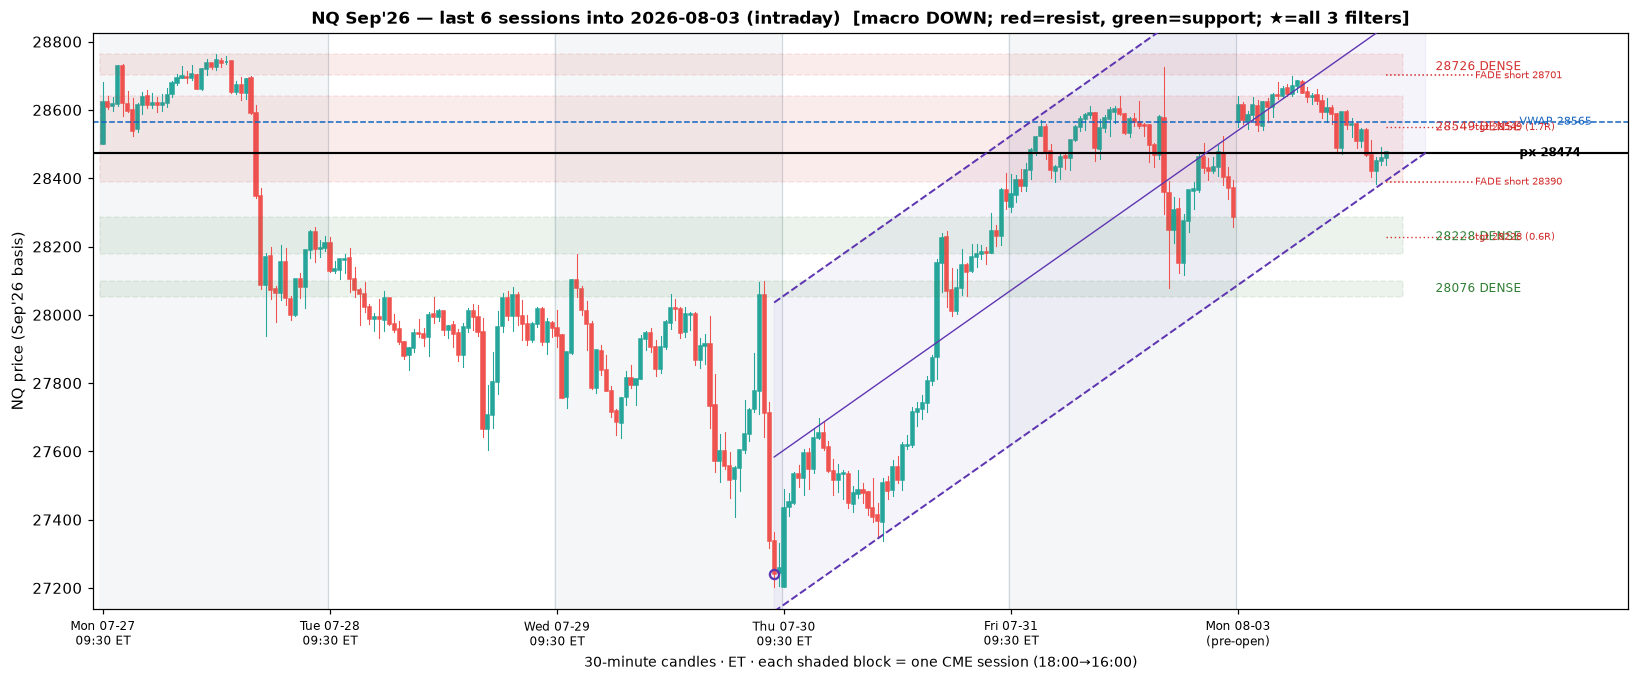
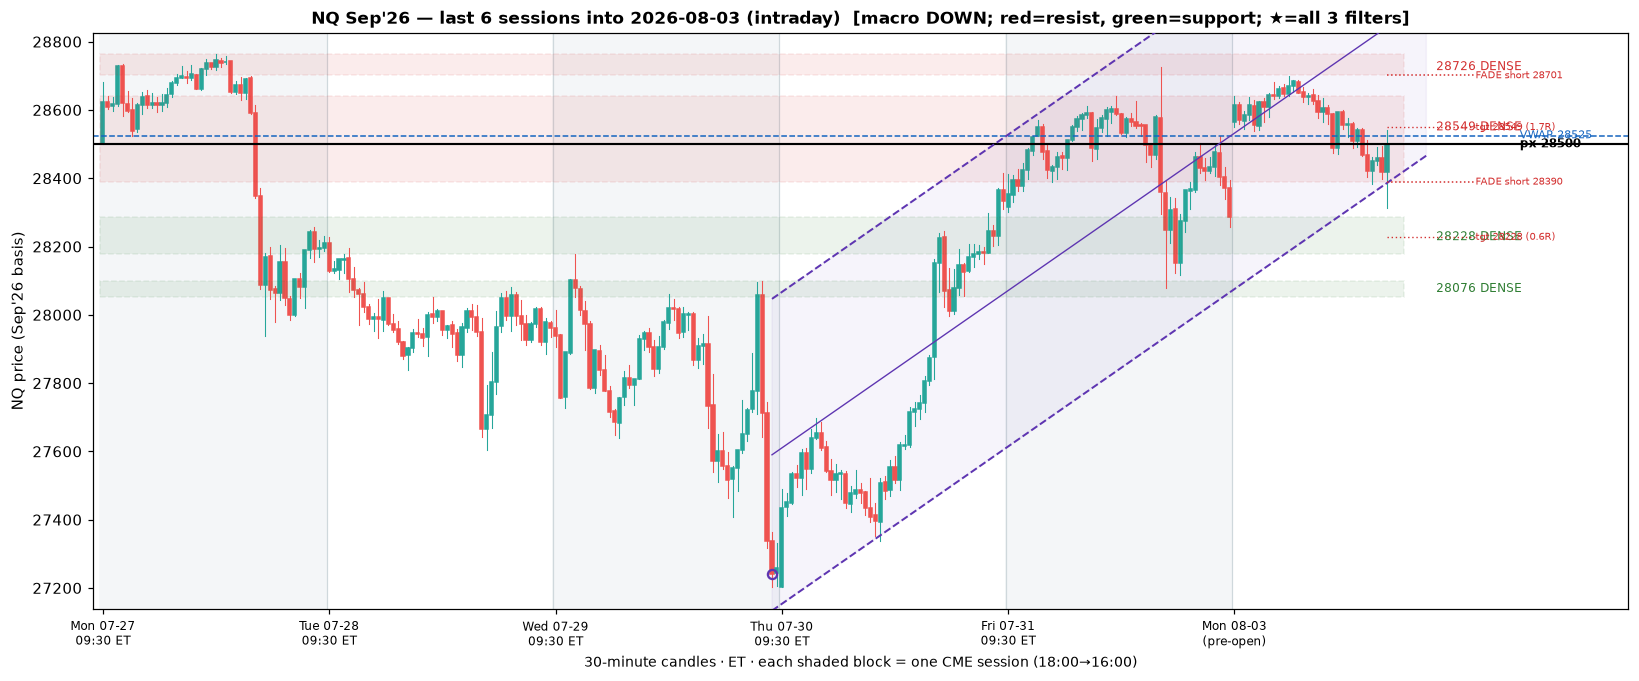
Rerun NQ Aug 3 ~08:55 (28499) + declutter ToS script (drop BOS/CHoCH bubbles)
Read: dipped 28313, bounced to 28499 at lower rail, -0.3sigma, macro DOWN, no
armed trigger. ToS: remove all AddChartBubble labels (HH/HL/LH/LL, BOS, CHoCH)
and their alerts - too crowded. Keep only the two dashed swing hi/lo lines (areas
of significance) + a BULL/BEAR structure label. Zones synced to today (4 zones).

Claude-Session: https://claude.ai/code/session_016aQdjV8pEkud2m7UoLztFR

diff --git a/charts/nq_confluence.ts b/charts/nq_confluence.ts
@@ -1,38 +1,37 @@
 # =====================================================================
-# NQ Confluence — three-filter system + market structure (ThinkOrSwim)
-#   FILTER 1 LOCATION  : A+/DENSE zones (edit the ZONE inputs each rerun)
+# NQ Confluence — three-filter system + clean structure (ThinkOrSwim)
+#   FILTER 1 LOCATION  : A+/DENSE zones (edit ZONE inputs each rerun)
 #   FILTER 2 DIRECTION : macro bias from the daily 10/20 SMA
 #   FILTER 3 EXTENSION : session VWAP +/- sigma stretch
 #   + regression channel + trend-aligned fade / break signals & alerts
-#   + MARKET STRUCTURE : swings (HH/HL/LH/LL), BOS, CHoCH  <-- put a copy
-#     of this study on a 15-MIN chart for the 15-min structure the video uses.
+#   + STRUCTURE : last swing hi/lo lines (areas of significance) + BULL/BEAR label
 #
 # ZONES BELOW ARE FOR 2026-08-03 — update them every rerun from three_filter_read.
 # thinkScript identifiers are CASE-INSENSITIVE; "VWAP" is reserved (plot = SessVWAP).
-# Paste into Studies > Create > thinkScript Editor. Zones/VWAP calibrated for 30-min.
+# Paste the WHOLE block into Studies > Create > thinkScript Editor.
 # =====================================================================
 declare upper;
 
-input kStretch      = 0.5;   # min |VWAP sigma| for the EXTENSION filter
-input chanLen       = 60;    # regression-channel lookback (bars)
-input chanDev       = 2.0;   # channel half-width in residual sigma
+input kStretch      = 0.5;
+input chanLen       = 60;
+input chanDev       = 2.0;
 input showChannel   = yes;
 input showVWAPbands = yes;
 
 # ---- ZONES (edit every rerun): hi / lo / is-resistance ----  (2026-08-03)
-input z1_hi = 28763.0;  input z1_lo = 28701.0;  input z1_resist = yes;   # 28726 DENSE shelf (resist)
-input z2_hi = 28641.0;  input z2_lo = 28390.0;  input z2_resist = yes;   # 28549 DENSE (resist)
+input z1_hi = 28763.0;  input z1_lo = 28701.0;  input z1_resist = yes;   # 28726 DENSE shelf
+input z2_hi = 28641.0;  input z2_lo = 28390.0;  input z2_resist = yes;   # 28549 DENSE
 input z3_hi = 28287.0;  input z3_lo = 28178.0;  input z3_resist = no;    # 28228 DENSE support
 input z4_hi = 28100.0;  input z4_lo = 28052.0;  input z4_resist = no;    # 28076 DENSE support
 
-# ---- FILTER 2: macro DIRECTION (daily 10/20 SMA + position) ----
+# ---- FILTER 2: macro DIRECTION (daily 10/20 SMA) ----
 def dClose = close(period = AggregationPeriod.DAY);
 def sma10  = Average(dClose, 10);
 def sma20  = Average(dClose, 20);
 def bias   = if sma10 > sma20 and dClose > sma20 then 1
              else if sma10 < sma20 and dClose < sma20 then -1 else 0;
 
-# ---- FILTER 3: session VWAP + sigma, stretch = (close-VWAP)/sigma ----
+# ---- FILTER 3: session VWAP + sigma stretch ----
 def newDay  = GetDay() != GetDay()[1];
 def vSum    = if newDay then volume else vSum[1] + volume;
 def pvSum   = if newDay then volume * hlc3 else pvSum[1] + volume * hlc3;
@@ -54,7 +53,7 @@ AddCloud(z2_hi, z2_lo, if z2_resist then Color.RED else Color.GREEN, if z2_resis
 AddCloud(z3_hi, z3_lo, if z3_resist then Color.RED else Color.GREEN, if z3_resist then Color.RED else Color.GREEN);
 AddCloud(z4_hi, z4_lo, if z4_resist then Color.RED else Color.GREEN, if z4_resist then Color.RED else Color.GREEN);
 
-# ---- regression channel (trailing linreg + residual sigma) ----
+# ---- regression channel ----
 def regVal = Inertia(close, chanLen);
 def rStd   = StDev(close - regVal, chanLen);
 plot ChMid = if showChannel then regVal else Double.NaN;
@@ -64,11 +63,7 @@ ChMid.SetDefaultColor(Color.VIOLET);
 ChUp.SetDefaultColor(Color.VIOLET);  ChUp.SetStyle(Curve.SHORT_DASH);
 ChLo.SetDefaultColor(Color.VIOLET);  ChLo.SetStyle(Curve.SHORT_DASH);
 
-# =====================================================================
-# SIGNALS — trend-aligned only (backtested). Generalised across all 4 zones:
-#   FADE  : tag a RESISTANCE zone (down tape) / SUPPORT zone (up tape) + >=kStretch sigma
-#   BREAK : close THROUGH a SUPPORT zone (down tape) / RESISTANCE zone (up tape), with trend
-# =====================================================================
+# ---- SIGNALS (trend-aligned, generalised across all 4 zones) ----
 def fadeShort = bias < 0 and stretch >= kStretch and (
     (z1_resist and high >= z1_lo and close < z1_lo) or
     (z2_resist and high >= z2_lo and close < z2_lo) or
@@ -103,53 +98,26 @@ plot SigBrkLong = if brkLong then high else Double.NaN;
 SigBrkLong.SetPaintingStrategy(PaintingStrategy.BOOLEAN_ARROW_UP);
 SigBrkLong.SetDefaultColor(Color.MAGENTA);
 
-Alert(fadeShort, "NQ FADE-short: zone tag + stretch (with trend)", Alert.BAR, Sound.Ring);
-Alert(fadeLong,  "NQ FADE-long: zone tag + stretch (with trend)",  Alert.BAR, Sound.Ring);
-Alert(brkShort,  "NQ BREAK-short: close thru support (with trend)", Alert.BAR, Sound.Bell);
-Alert(brkLong,   "NQ BREAK-long: close thru resistance (with trend)", Alert.BAR, Sound.Bell);
+Alert(fadeShort, "NQ FADE-short", Alert.BAR, Sound.Ring);
+Alert(fadeLong,  "NQ FADE-long",  Alert.BAR, Sound.Ring);
+Alert(brkShort,  "NQ BREAK-short", Alert.BAR, Sound.Bell);
+Alert(brkLong,   "NQ BREAK-long",  Alert.BAR, Sound.Bell);
 
-# =====================================================================
-# MARKET STRUCTURE — swings + BOS / CHoCH  (best on a 15-min chart)
-#   Dashed gray = last swing hi / lo = the liquidity the trend must break.
-#   BOS = break WITH trend (continuation); CHoCH = first break AGAINST (reversal risk).
-# =====================================================================
+# ---- STRUCTURE (clean): last swing hi/lo = areas of significance ----
 input showStructure = yes;
-input swingStrength = 5;     # bars each side of a swing pivot
-
+input swingStrength = 5;
 def ph = high[swingStrength] == Highest(high, 2 * swingStrength + 1);
 def pl = low[swingStrength]  == Lowest(low,  2 * swingStrength + 1);
-
-def swHi  = if ph then high[swingStrength] else swHi[1];
-def swLo  = if pl then low[swingStrength]  else swLo[1];
-def pSwHi = if ph then swHi[1] else pSwHi[1];
-def pSwLo = if pl then swLo[1] else pSwLo[1];
-
-def dir = CompoundValue(1,
+def swHi = if ph then high[swingStrength] else swHi[1];
+def swLo = if pl then low[swingStrength]  else swLo[1];
+def dir  = CompoundValue(1,
     if swHi > 0 and close > swHi then 1
     else if swLo > 0 and close < swLo then -1
     else dir[1], 0);
-
-def brokeUp = swHi > 0 and close > swHi and close[1] <= swHi;
-def brokeDn = swLo > 0 and close < swLo and close[1] >= swLo;
-def bosUp   = brokeUp and dir[1] > 0;
-def chochUp = brokeUp and dir[1] <= 0;
-def bosDn   = brokeDn and dir[1] < 0;
-def chochDn = brokeDn and dir[1] >= 0;
-
-AddChartBubble(showStructure and ph and high[swingStrength] >  pSwHi, high[swingStrength], "HH", Color.GREEN, yes);
-AddChartBubble(showStructure and ph and high[swingStrength] <= pSwHi, high[swingStrength], "LH", Color.RED,   yes);
-AddChartBubble(showStructure and pl and low[swingStrength]  <  pSwLo, low[swingStrength],  "LL", Color.RED,   no);
-AddChartBubble(showStructure and pl and low[swingStrength]  >= pSwLo, low[swingStrength],  "HL", Color.GREEN, no);
-AddChartBubble(showStructure and (bosUp or bosDn),     close, "BOS",   Color.CYAN,   bosUp);
-AddChartBubble(showStructure and (chochUp or chochDn), close, "CHoCH", Color.YELLOW, chochUp);
-
 plot SwingHi = if showStructure then swHi else Double.NaN;
 plot SwingLo = if showStructure then swLo else Double.NaN;
 SwingHi.SetDefaultColor(Color.GRAY);  SwingHi.SetStyle(Curve.LONG_DASH);
 SwingLo.SetDefaultColor(Color.GRAY);  SwingLo.SetStyle(Curve.LONG_DASH);
-
-Alert(showStructure and (bosUp or bosDn),     "NQ BOS (structure continuation)", Alert.BAR, Sound.Ding);
-Alert(showStructure and (chochUp or chochDn), "NQ CHoCH (structure shift)",      Alert.BAR, Sound.Ding);
 
 # ---- status labels ----
 AddLabel(yes, "Macro " + (if bias > 0 then "UP" else if bias < 0 then "DOWN" else "MIXED"),
@@ -157,5 +125,5 @@ AddLabel(yes, "Macro " + (if bias > 0 then "UP" else if bias < 0 then "DOWN" els
 AddLabel(yes, "Stretch " + Round(stretch, 1) + "s",
          if AbsValue(stretch) >= kStretch then Color.YELLOW else Color.GRAY);
 AddLabel(yes, "VWAP " + Round(vwapVal, 0), Color.CYAN);
-AddLabel(showStructure, "Structure " + (if dir > 0 then "BULL (HH/HL)" else "BEAR (LH/LL)"),
+AddLabel(showStructure, "Struct " + (if dir > 0 then "BULL" else "BEAR"),
          if dir > 0 then Color.GREEN else Color.RED);

diff --git a/scripts/three_filter_read.py b/scripts/three_filter_read.py
@@ -33,7 +33,7 @@ import scripts.backtest_confluence as bt
 from scripts.sim_15day import macro_bias, WIN_F, BUF_F
 
 ET = "America/New_York"
-LIVE_PX = 28473.75
+LIVE_PX = 28499.75
 K_STRETCH = 0.5
 CHART_SESSIONS = 6
 FVG_R = 2.5          # target R for FVG pullback entries (backtest peak)
@@ -129,7 +129,7 @@ def main():
 
     print(f"NQ three-filter read — {cur_date} PRE-OPEN (overnight)   price {px:.0f}")
     print(f"  CONTRACT: front Sep'26 (exp 09-18)  |  back Dec'26  |  next roll ~Sep 10  |  basis: Sep, single")
-    print(f"  o/n range 28383-28698   +70 (+0.24%)  [Mon Aug 3 pre-open ~08:15 ET, dipped 28383 -> bounced]")
+    print(f"  o/n range 28313-28698   +96 (+0.34%)  [Mon Aug 3 pre-open ~08:55 ET]")
     print(f"  macro series: {len(daily)} Sep-basis daily closes {daily.index[0]}..{daily.index[-1]}\n")
     print(f"FILTER 2 DIRECTION : macro bias {bias_txt}  (10d SMA {s10:.0f} vs 20d SMA {s20:.0f}) "
           f"-> {'SHORT resistance only' if bias<0 else ('LONG support only' if bias>0 else 'stand aside')}\n")
